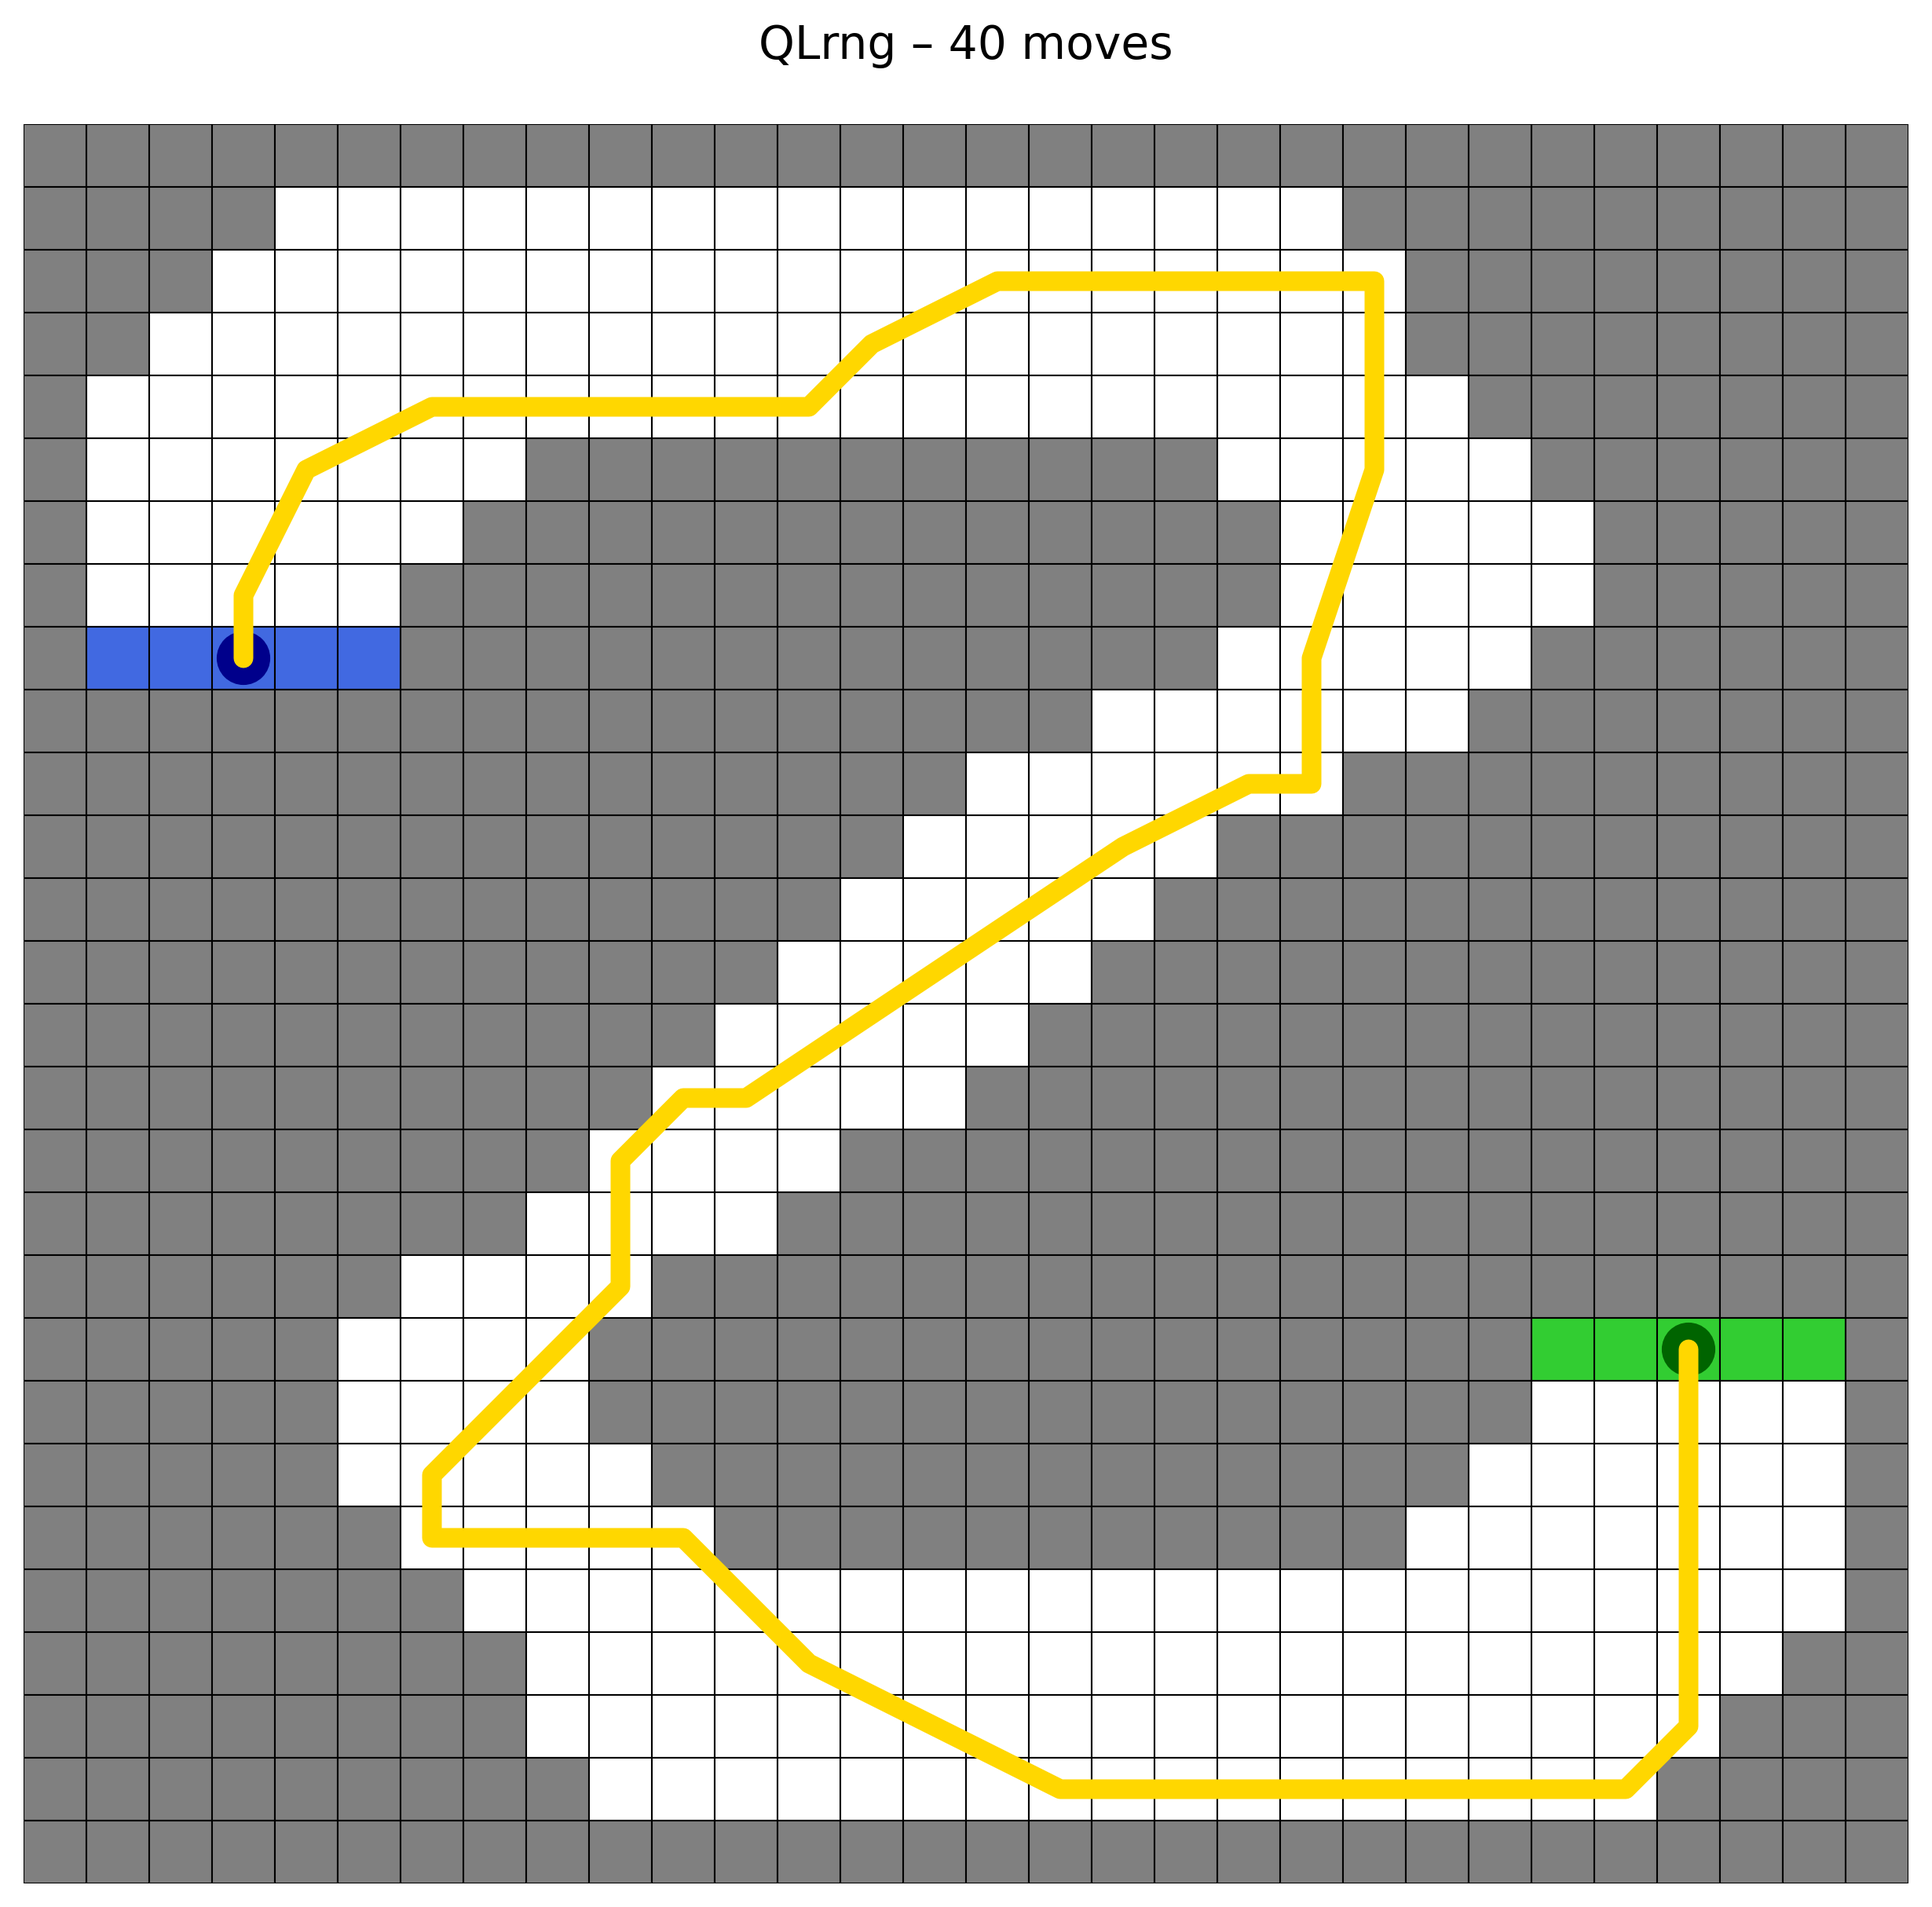
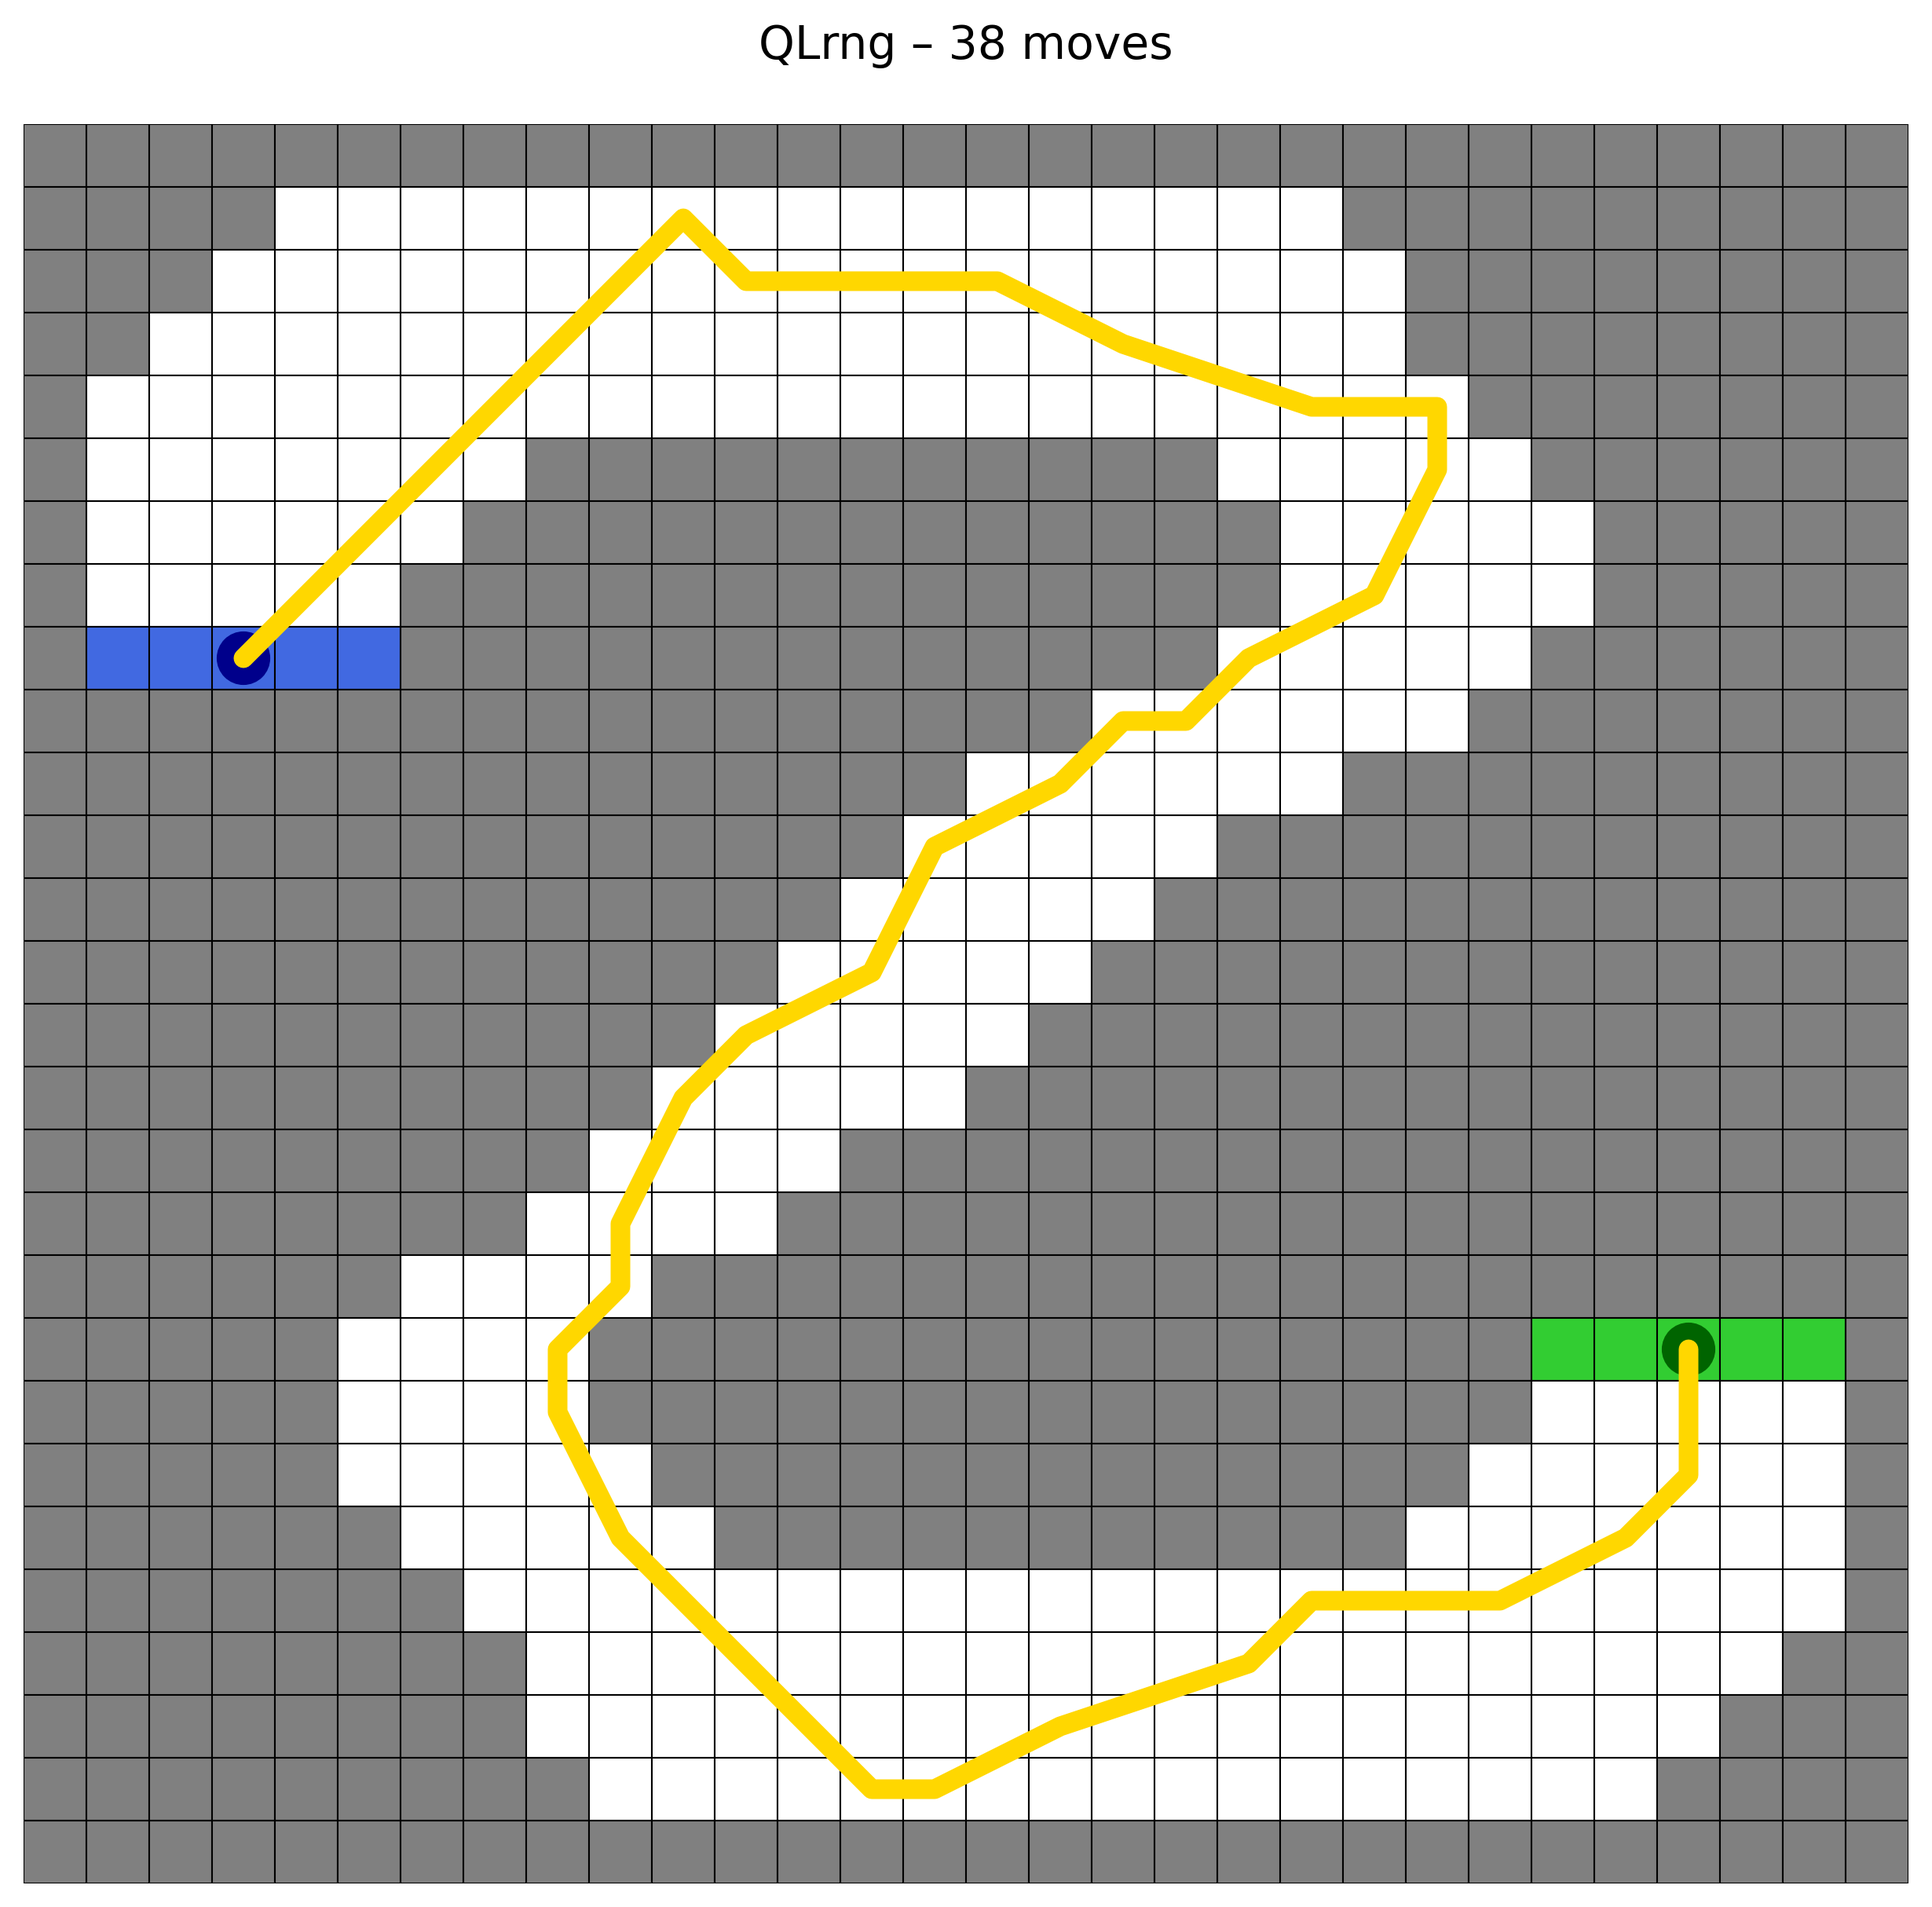
fixed code for different (newer) numpy versions, ran all tests to generate pngs

diff --git a/Track.py b/Track.py
@@ -41,7 +41,7 @@ class Track:
         self.startingCells = [] # contains array of all starting cells. 
         # For value iteration, the best of self.valIterStates[startingCell][0][0][startingAccx][startingAccy] will be selected as our first position/move.
         # Then, we will greedily follow that gradient to the finish to obtain our optimal path.
-        
+        '''
         for row in range(self.trackShape[0]):
             for col in range(self.trackShape[1]):
                 item = self.track[row][col]
@@ -51,6 +51,16 @@ class Track:
                 if ((item == 0) or (item == 1) or (item == 2)):
                     self.trackIDs.update({self.trackSize : [row, col]})
                     self.trackLocs.update({str([row, col]) : self.trackSize})
+                    self.trackSize += 1''' 
+
+        for row in range(self.trackShape[0]):
+            for col in range(self.trackShape[1]):
+                item = self.track[row][col]
+                if item == 1:
+                    self.startingCells.append((row, col))  
+                if item in (0, 1, 2):
+                    self.trackIDs[self.trackSize] = (row, col)   
+                    self.trackLocs[(row, col)] = self.trackSize  
                     self.trackSize += 1
                     
         # array to contain the score for every possible state. The state is represented as:
@@ -228,7 +238,7 @@ class Track:
         self.acceleration[1] = move[5]
         self.updateVelocity()
         self.updatePosition()
-        trackID = self.trackLocs[str([self.position[0], self.position[1]])]
+        trackID = self.trackLocs[(int(self.position[0]), int(self.position[1]))]
         resultingState = [trackID, self.velocity[0], self.velocity[1], self.acceleration[0], self.acceleration[1]]
         return resultingState
 
@@ -242,8 +252,8 @@ class Track:
         self.updateVelocity()
         self.updatePosition()
         Finishes = False
-        oldTrackID = self.trackLocs[str([move[0], move[1]])]
-        trackID = self.trackLocs[str([self.position[0], self.position[1]])]
+        oldTrackID = self.trackLocs[(move[0], move[1])]
+        trackID = self.trackLocs[(int(self.position[0]), int(self.position[1]))]
         self.resultingStates[oldTrackID][move[2] + 5][move[3] + 5][move[4] + 1][move[5] + 1] = np.array([trackID, self.velocity[0] + 5, self.velocity[1] + 5])
         if (self.track[self.position[0]][self.position[1]] == 2):
             Finishes = True
@@ -270,10 +280,10 @@ class Track:
         # from the best starting cell, track best path deterministically to finish (we are just recording our findings, this is not 
         # an actual simulation)
         
-        bestStart = [self.trackLocs[str(self.startingCells[0])], 0, 0]
+        bestStart = [self.trackLocs[self.startingCells[0]], 0, 0]
         bestStartValue = -99999
         for cell in self.startingCells:
-            startingID = self.trackLocs[str(cell)]
+            startingID = self.trackLocs[cell]
             for xaccIndex in range(3):
                 for yaccIndex in range(3):
                     startValue = self.valIterStates[startingID][5][5][xaccIndex][yaccIndex]
@@ -295,13 +305,13 @@ class Track:
         while self.track[self.position[0]][self.position[1]] != 2:
             bestMoveValue = -99999
             bestMove = [0, 0]
-            cellID = self.trackLocs[str([self.position[0], self.position[1]])]
+            cellID = self.trackLocs[(int(self.position[0]), int(self.position[1]))]
             for xaccIndex in range(3):
                 for yaccIndex in range(3):
                     moveValue = self.valIterStates[cellID][self.velocity[0] + 5][self.velocity[1] + 5][xaccIndex][yaccIndex]
                     if (moveValue > bestMoveValue):
                         bestMove = [xaccIndex - 1, yaccIndex - 1]
-                        bestMoveValue =moveValue
+                        bestMoveValue = moveValue
             self.acceleration[0] = bestMove[0]
             self.acceleration[1] = bestMove[1]
             self.updateVelocity()
@@ -511,7 +521,7 @@ class Track:
 
         # get index for the current state
         def getStateIndex():
-            trackID = self.trackLocs[str([self.position[0], self.position[1]])]
+            trackID = self.trackLocs[(int(self.position[0]), int(self.position[1]))]
             vxIDX = self.velocity[0] + 5
             vyIDX = self.velocity[1] + 5
             return trackID, vxIDX, vyIDX
@@ -763,7 +773,7 @@ class Track:
 
         # get index for the current state
         def getStateIndex():
-            trackID = self.trackLocs[str([self.position[0], self.position[1]])]
+            trackID = self.trackLocs[(int(self.position[0]), int(self.position[1]))]
             vxIDX = self.velocity[0] + 5
             vyIDX = self.velocity[1] + 5
             return trackID, vxIDX, vyIDX
